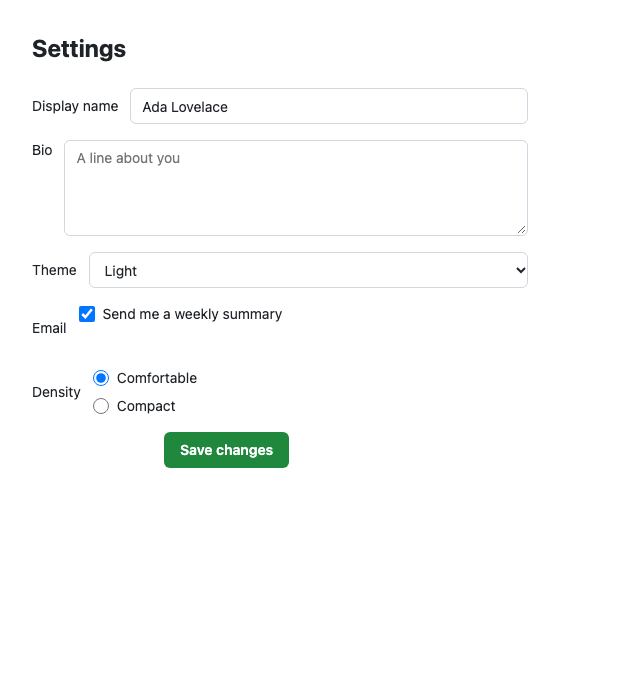
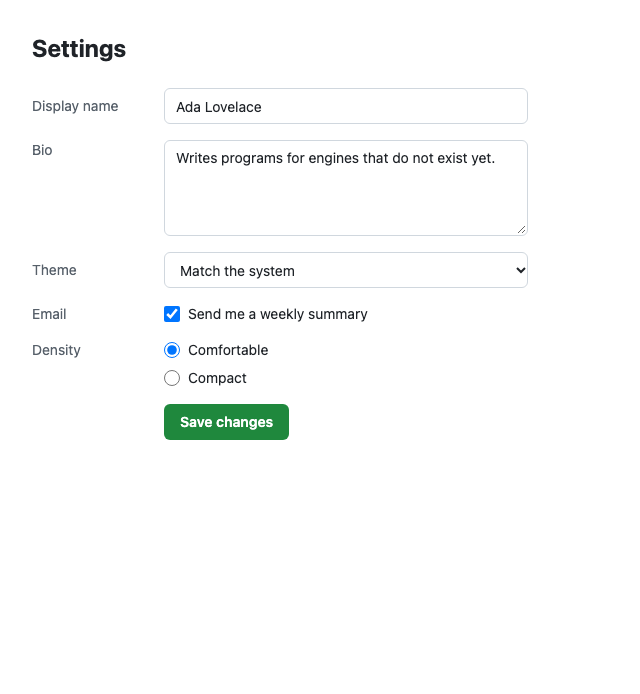
Docs: Keep CSS and form values intact in the Chromium references (FR-34)
The serialiser escaped '>' inside <style>, so Chromium dropped the
settings sample's child-combinator rule, and it wrote a textarea's and a
select's value as attributes Chromium ignores. Text in <style> is now
written raw, a textarea's value is its content and the selected option
is marked. Only the settings reference changes.

Refs #179.

diff --git a/experiments/html-samples/chromium/settings.html b/experiments/html-samples/chromium/settings.html
@@ -35,7 +35,7 @@ h1 {
     align-items: flex-start;
 }
 
-.field &gt; label,
+.field > label,
 .group-label {
     width: 120px;
     flex-shrink: 0;
@@ -107,4 +107,4 @@ textarea.control {
     margin: 0;
     color: #1a7f37;
 }
-</style></head><body><form id="settings" class="settings"><h1>Settings</h1><div class="field"><label id="name-label" for="name">Display name</label><input id="name" class="control" type="text" placeholder="Your name" value="Ada Lovelace"></div><div class="field tall"><label id="bio-label" for="bio">Bio</label><textarea id="bio" class="control" placeholder="A line about you" value="Writes programs for engines that do not exist yet."></textarea></div><div class="field"><label id="theme-label" for="theme">Theme</label><select id="theme" class="control" value="system"><option value="light">Light</option><option value="dark">Dark</option><option value="system">Match the system</option></select></div><div class="group"><p class="group-label">Email</p><div class="options"><label class="check"><input id="weekly" type="checkbox" checked="true">Send me a weekly summary</label></div></div><div class="group"><p class="group-label">Density</p><div class="options"><label class="check"><input type="radio" name="density" id="density-0" value="Comfortable" checked="true">Comfortable</label><label class="check"><input type="radio" name="density" id="density-1" value="Compact">Compact</label></div></div><div class="actions"><button id="save" class="save" type="button">Save changes</button></div></form></body></html>
+</style></head><body><form id="settings" class="settings"><h1>Settings</h1><div class="field"><label id="name-label" for="name">Display name</label><input id="name" class="control" type="text" placeholder="Your name" value="Ada Lovelace"></div><div class="field tall"><label id="bio-label" for="bio">Bio</label><textarea id="bio" class="control" placeholder="A line about you" value="Writes programs for engines that do not exist yet.">Writes programs for engines that do not exist yet.</textarea></div><div class="field"><label id="theme-label" for="theme">Theme</label><select id="theme" class="control" value="system"><option value="light">Light</option><option value="dark">Dark</option><option value="system" selected>Match the system</option></select></div><div class="group"><p class="group-label">Email</p><div class="options"><label class="check"><input id="weekly" type="checkbox" checked="true">Send me a weekly summary</label></div></div><div class="group"><p class="group-label">Density</p><div class="options"><label class="check"><input type="radio" name="density" id="density-0" value="Comfortable" checked="true">Comfortable</label><label class="check"><input type="radio" name="density" id="density-1" value="Compact">Compact</label></div></div><div class="actions"><button id="save" class="save" type="button">Save changes</button></div></form></body></html>

diff --git a/experiments/html-samples/tools/dump.rs b/experiments/html-samples/tools/dump.rs
@@ -23,7 +23,9 @@ const VOID: &[&str] = &["area","base","br","col","embed","hr","img","input","lin
 
 fn write(doc: &BaseDocument, id: usize, out: &mut String) {
     let node = doc.get_node(id).unwrap();
+    let raw = node.parent.and_then(|p| doc.get_node(p)).and_then(|p| p.element_data()).is_some_and(|e| matches!(&*e.name.local, "style" | "script"));
     match &node.data {
+        NodeData::Text(t) if raw => out.push_str(&t.content),
         NodeData::Text(t) => out.push_str(&esc(&t.content, false)),
         NodeData::Element(e) => {
             let name = e.name.local.to_string();
@@ -31,7 +33,17 @@ fn write(doc: &BaseDocument, id: usize, out: &mut String) {
             for a in e.attrs() {
                 write!(out, " {}=\"{}\"", a.name.local, esc(&a.value, true)).unwrap();
             }
+            // A select's value names the option that is selected.
+            if name == "option" {
+                let value = e.attr(blitz_dom::local_name!("value")).map(str::to_string).unwrap_or_else(|| node.text_content());
+                let sel = node.parent.and_then(|p| doc.get_node(p)).and_then(|p| p.element_data()).and_then(|p| p.attr(blitz_dom::local_name!("value")).map(str::to_string));
+                if sel.as_deref() == Some(value.as_str()) { out.push_str(" selected"); }
+            }
             out.push('>');
+            // A textarea's value is its content.
+            if name == "textarea" {
+                if let Some(v) = e.attr(blitz_dom::local_name!("value")) { out.push_str(&esc(v, false)); write!(out, "</textarea>").unwrap(); return; }
+            }
             if VOID.contains(&name.as_str()) { return; }
             for &c in &node.children { write(doc, c, out); }
             write!(out, "</{name}>").unwrap();
